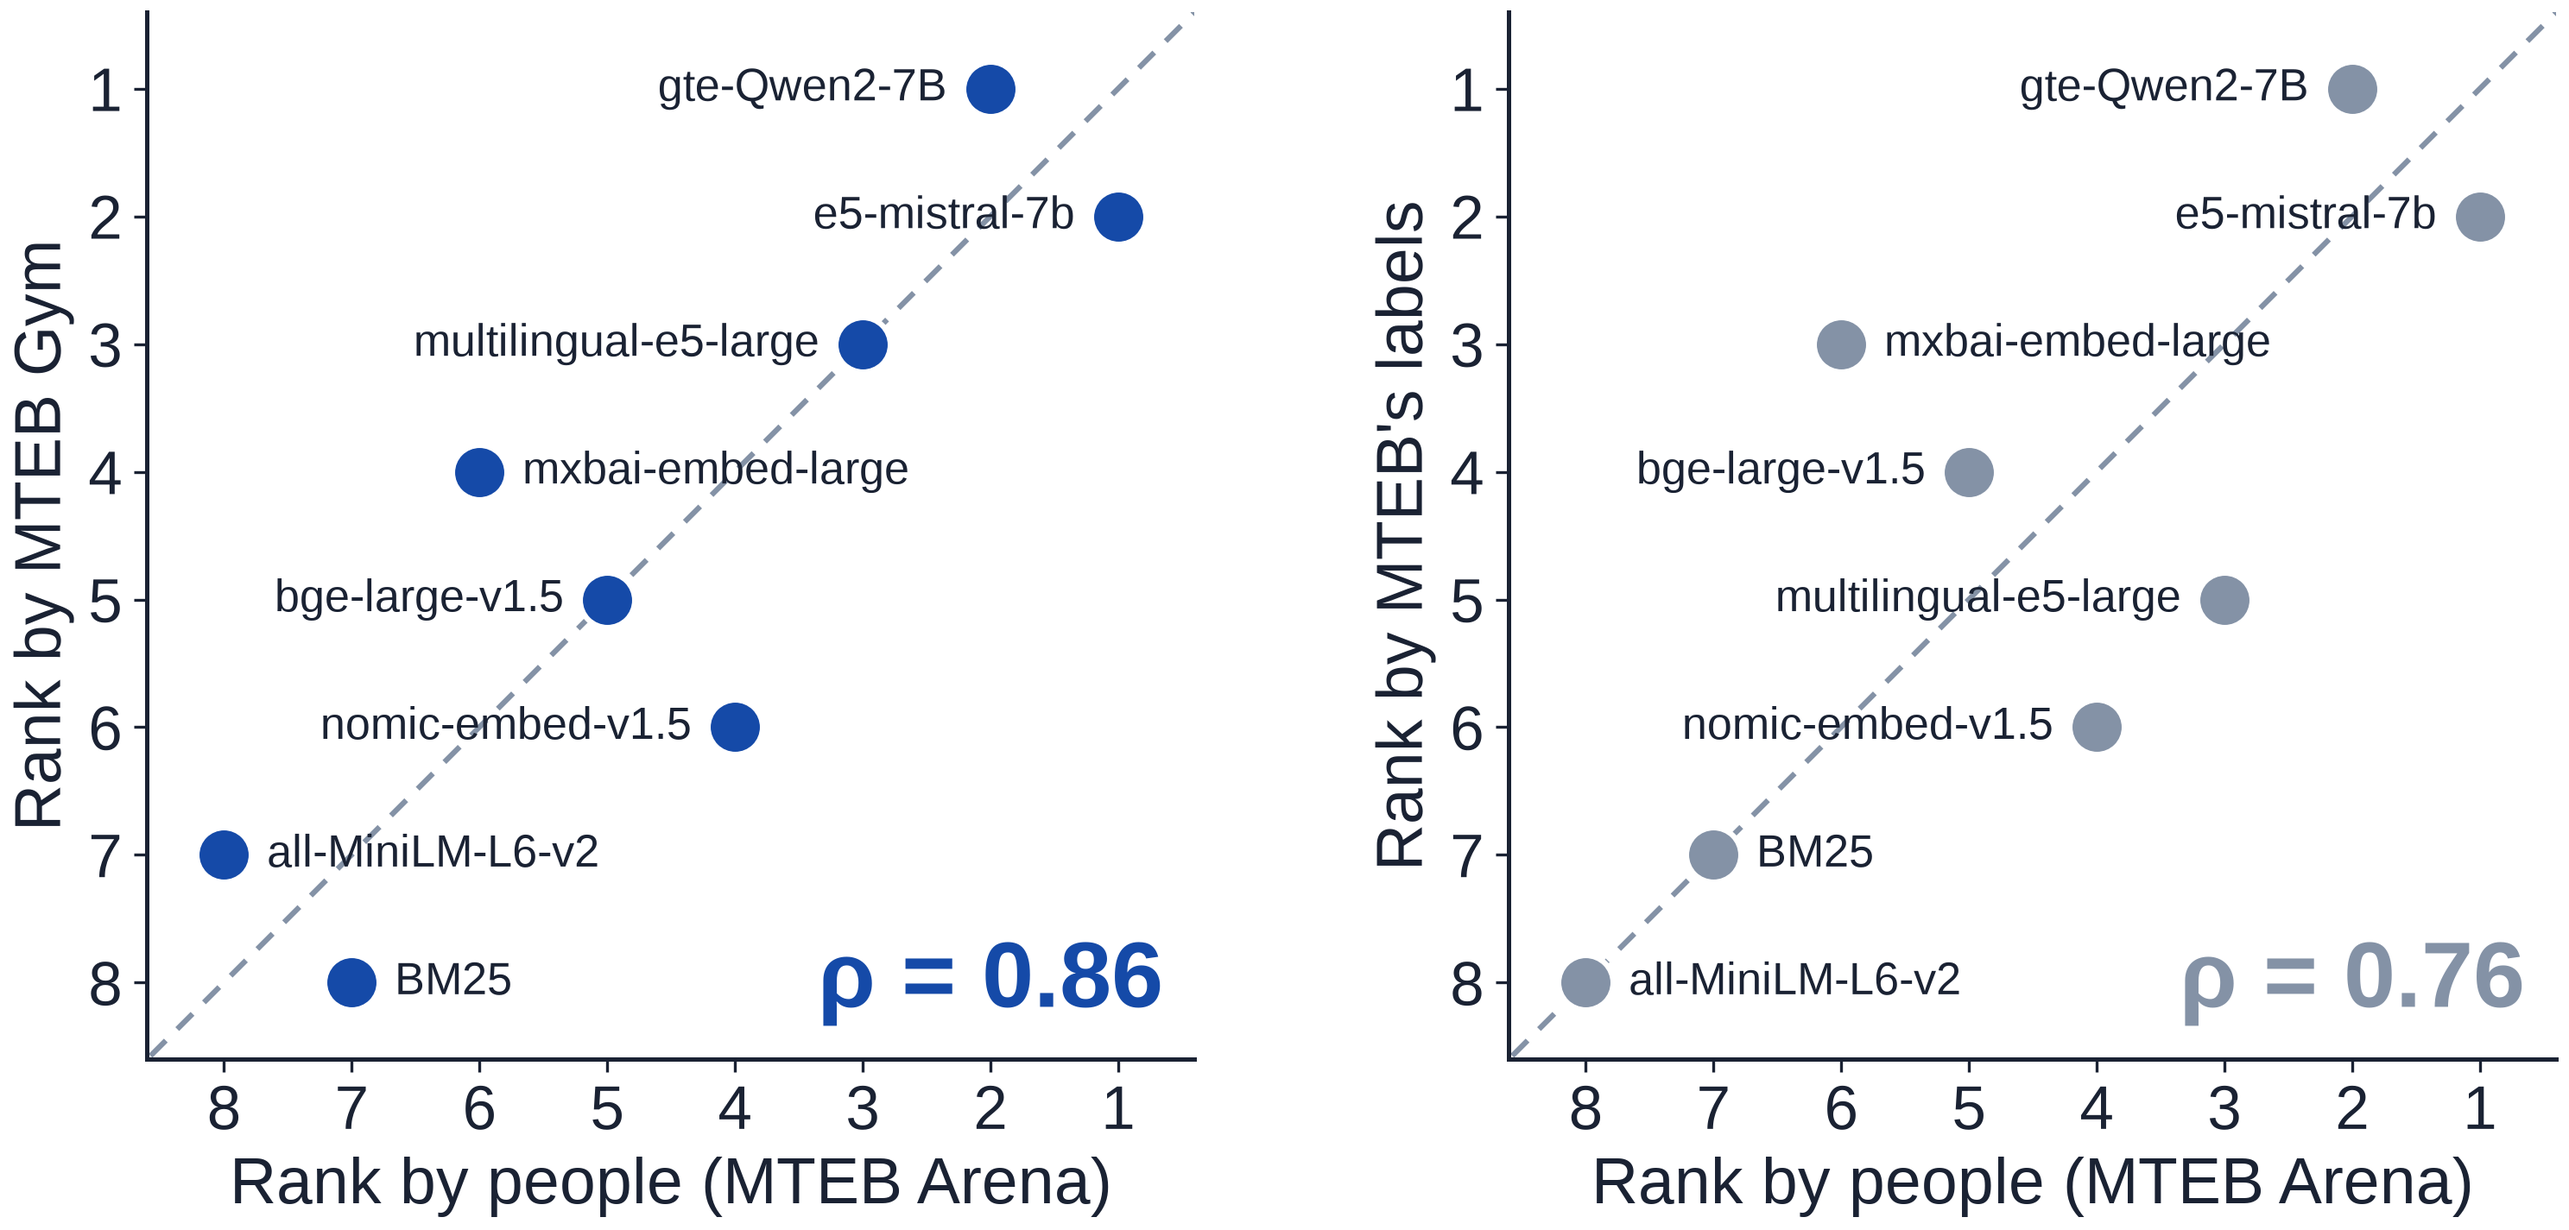
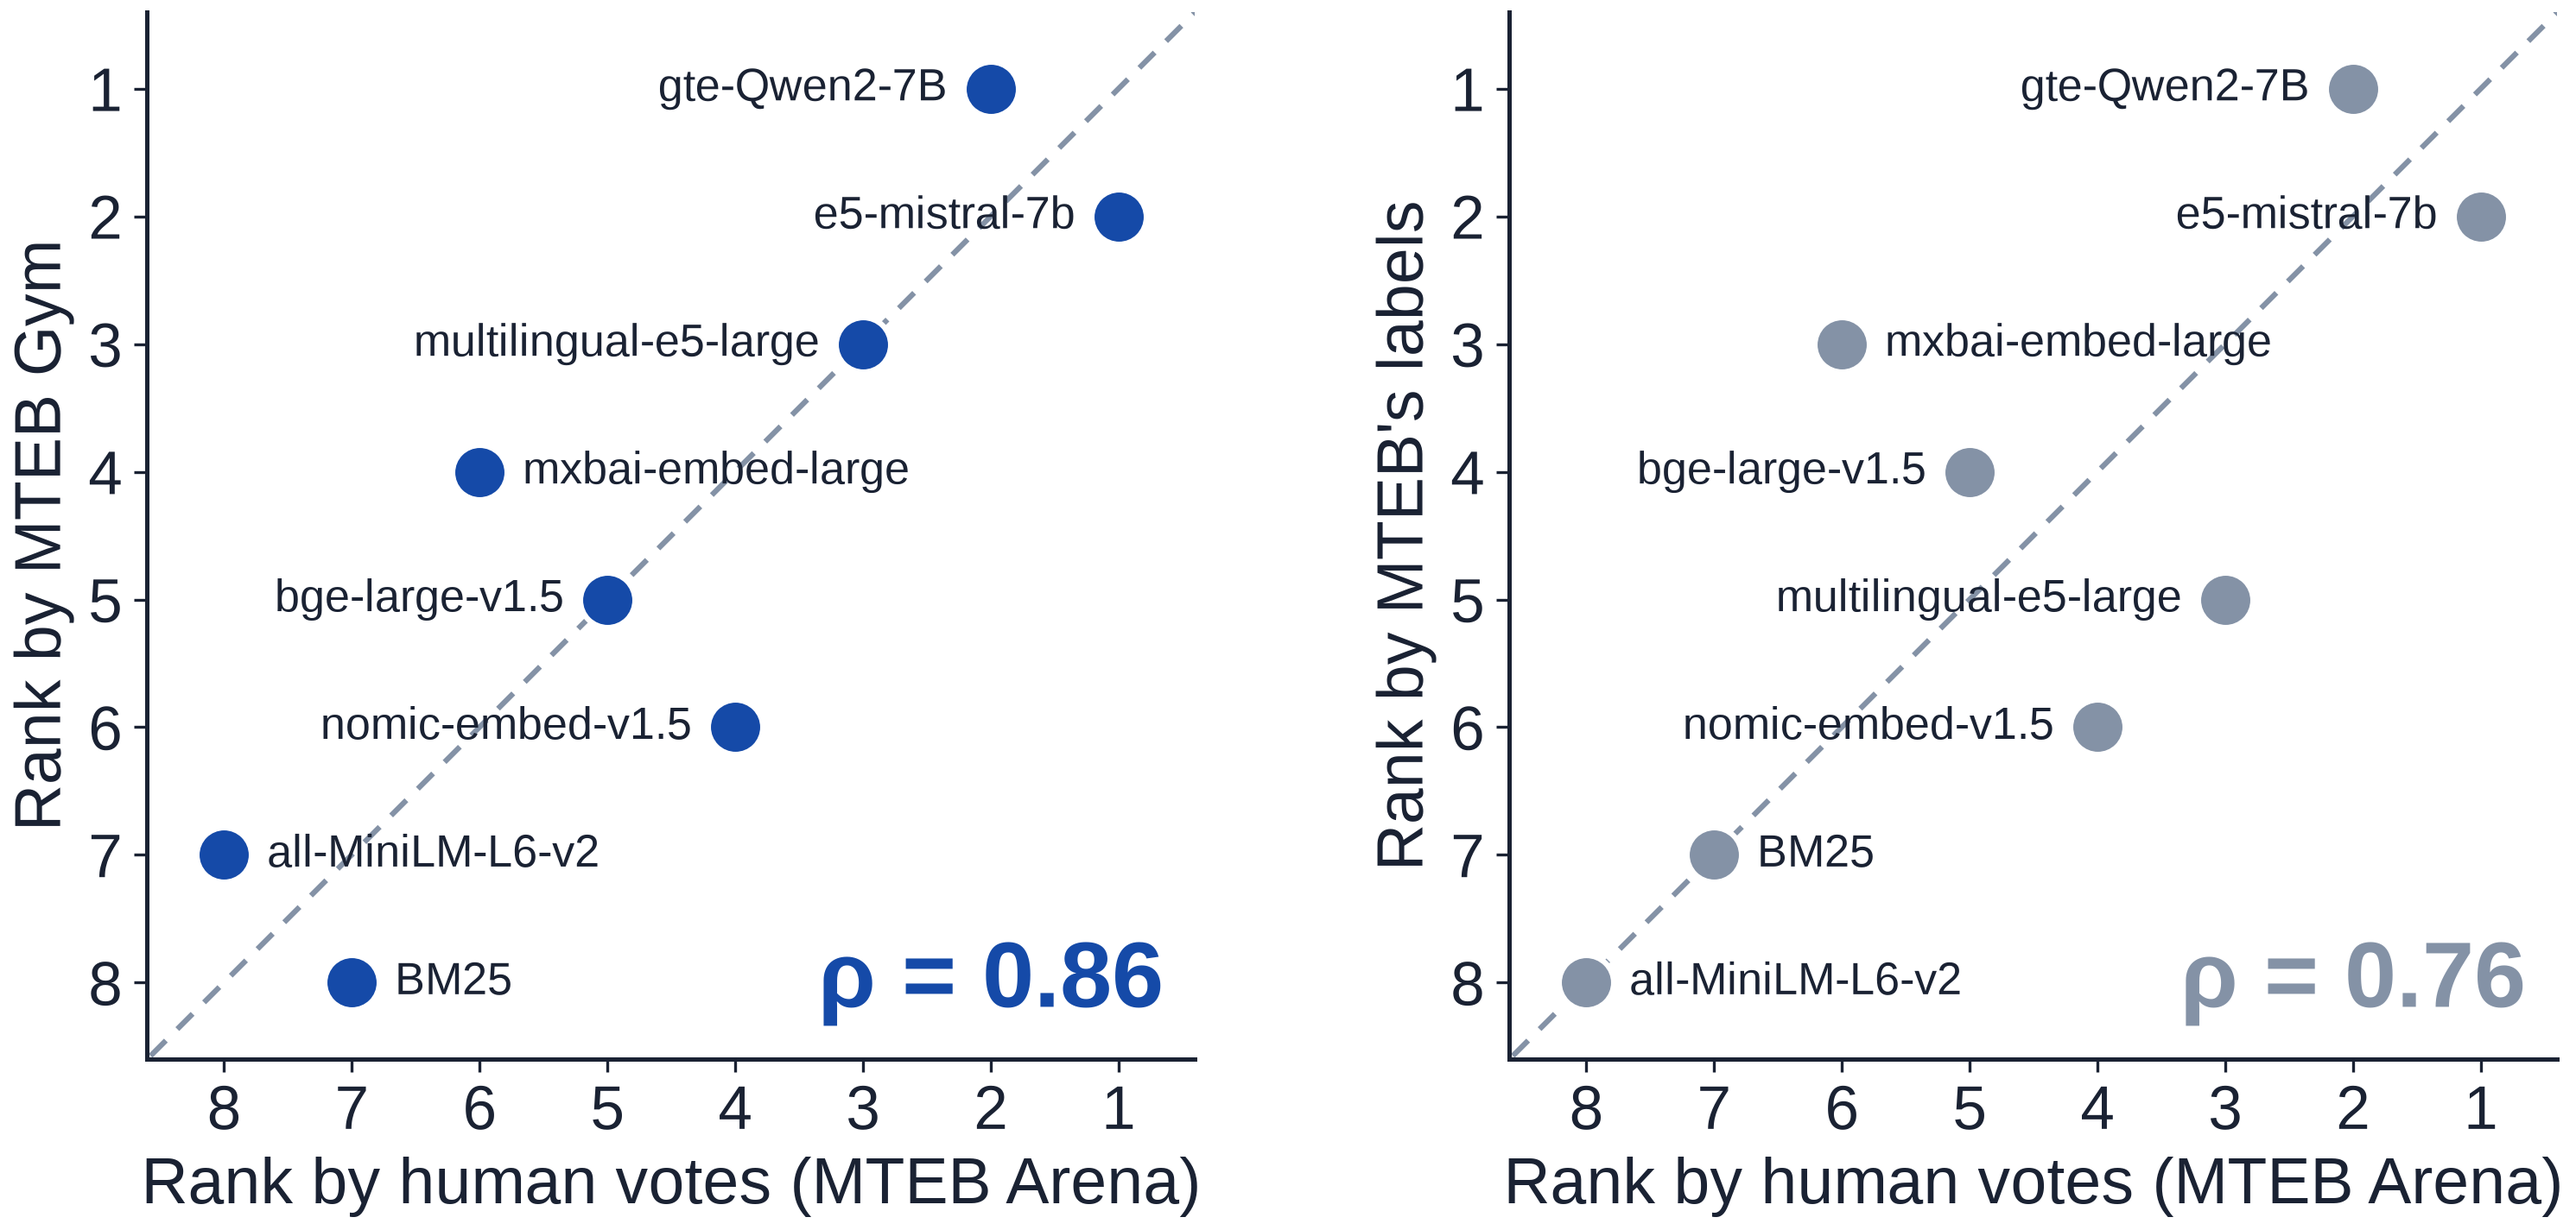
Say human votes (MTEB Arena) on the axis

diff --git a/analysis/plot_humans.py b/analysis/plot_humans.py
@@ -65,6 +65,6 @@ for ax, scores, ylabel, color in ((axes[0], gym, "Rank by MTEB Gym", BLUE), (axe
     ax.set_xlim(8.6, 0.4)
     ax.set_ylim(8.6, 0.4)
     ax.set_aspect("equal")
-    ax.set_xlabel("Rank by people (MTEB Arena)")
+    ax.set_xlabel("Rank by human votes (MTEB Arena)")
     ax.set_ylabel(ylabel)
 save(fig, "humans")
